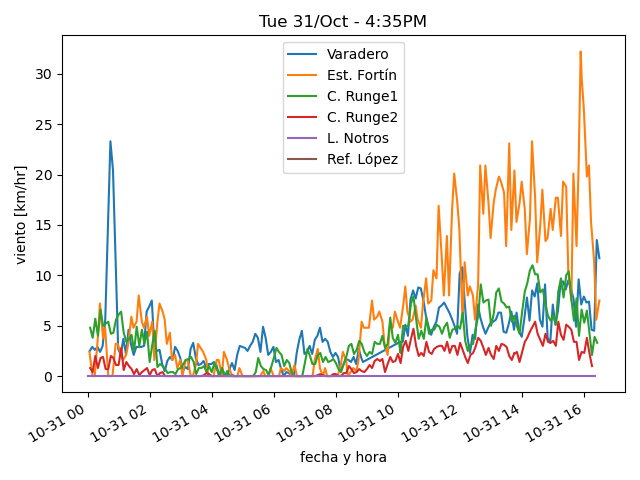
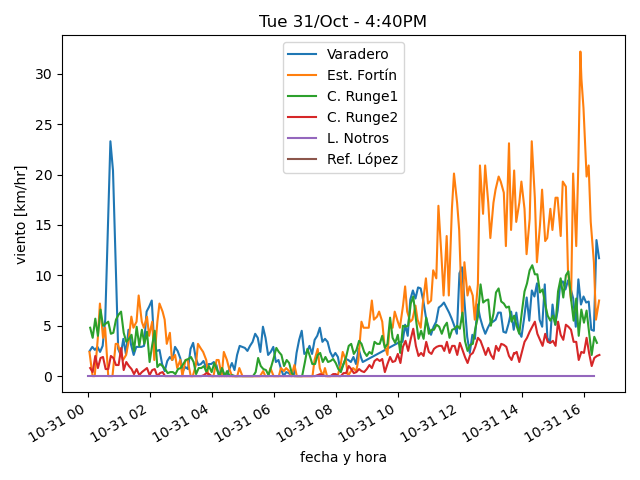
actualiza datos

diff --git a/estaciones/estacion4.html b/estaciones/estacion4.html
@@ -18,22 +18,22 @@
     </tr>
     <tr>
      <td class="stats_data">
-      4:14PM
+      4:29PM
      </td>
     </tr>
     <tr>
      <td class="stats_data">
-      8.5⁰C
+      7.5⁰C
      </td>
     </tr>
     <tr>
      <td class="stats_data">
-      -0.9⁰C
+      -0.4⁰C
      </td>
     </tr>
     <tr>
      <td class="stats_data">
-      51.7%
+      57.4%
      </td>
     </tr>
     <tr>
@@ -43,7 +43,7 @@
     </tr>
     <tr>
      <td class="stats_data">
-      0.5/1.0 km/hr SSE
+      1.2/2.1 km/hr NW
      </td>
     </tr>
     <tr>
@@ -53,12 +53,12 @@
     </tr>
     <tr>
      <td class="stats_data">
-      1.0
+      0.0
      </td>
     </tr>
     <tr>
      <td class="stats_data">
-      191.7 W/m²
+      83.8 W/m²
      </td>
     </tr>
    </tbody>
